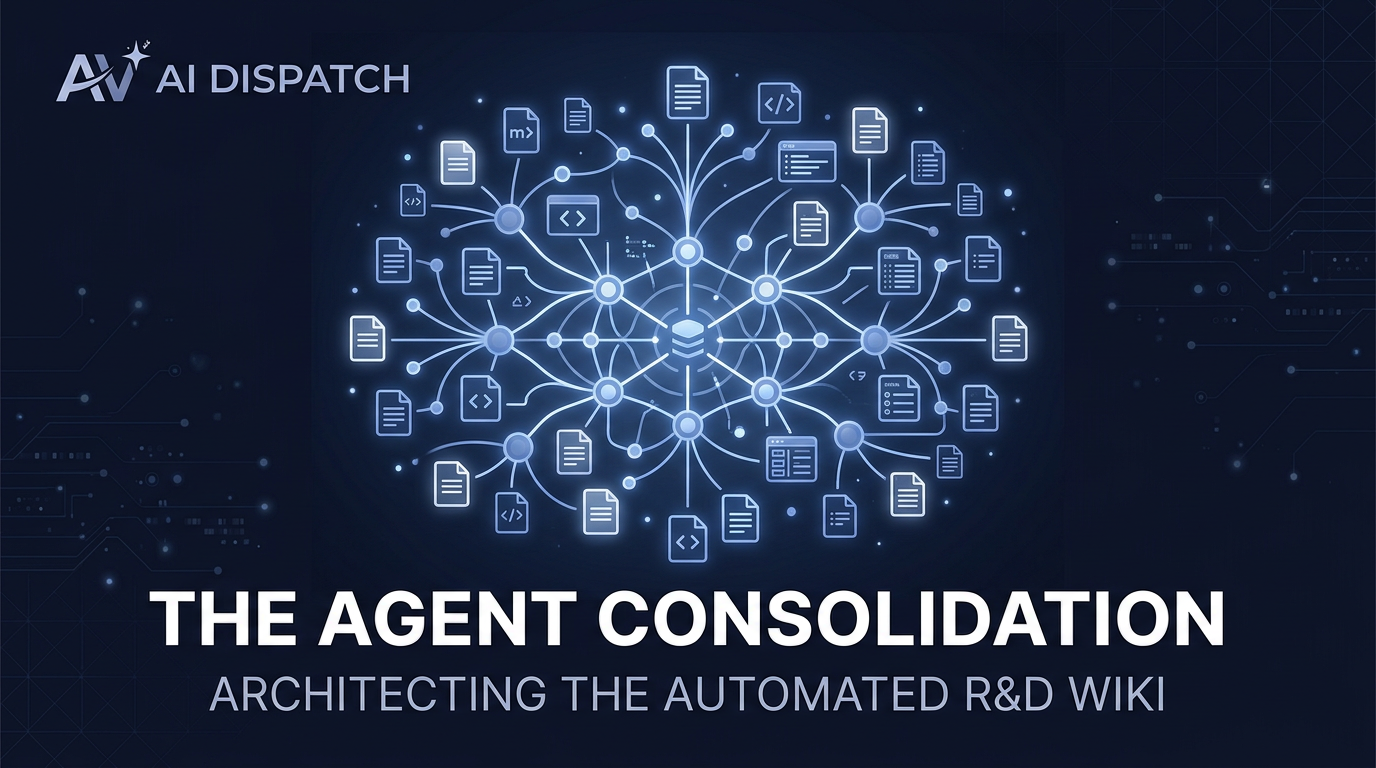
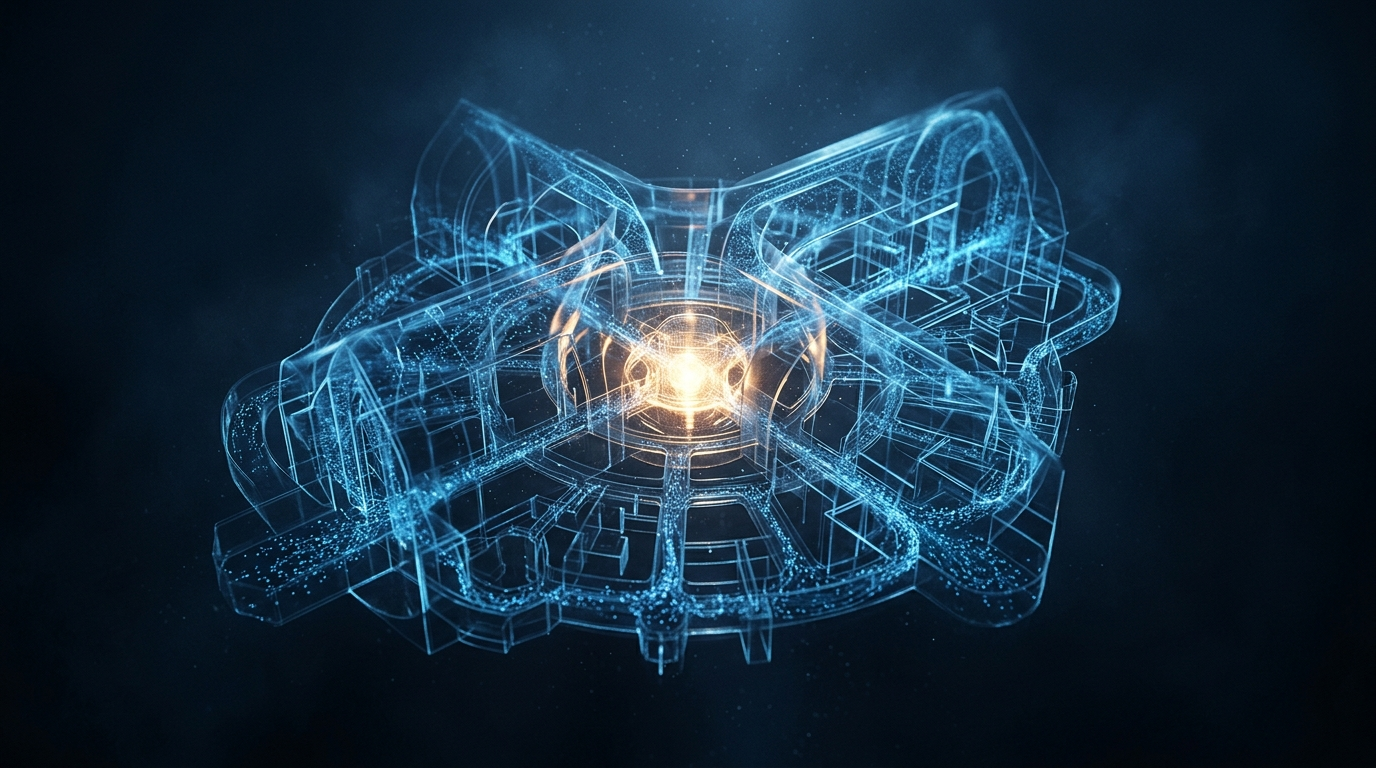
Replace video thumbnail with Nano Banana 2 generation, fix video card CSS
Regenerate thumbnail via Gemini Nano Banana 2 (gemini-3.1-flash-image-preview)
for higher quality cinematic output. Fix video-card-player → video-card-body
class mismatch that broke poster display.

Made-with: Cursor

diff --git a/AV-AI-Newsletter/site/editions/2026-04-03/index.html b/AV-AI-Newsletter/site/editions/2026-04-03/index.html
@@ -91,7 +91,7 @@
               <div class="video-card-title">${VIDEO_TITLE}</div>
             </div>
           </div>
-          <div class="video-card-player">
+          <div class="video-card-body">
             <video controls playsinline preload="metadata" poster="${VIDEO_THUMB}">
               <source src="${VIDEO_SRC}" type="video/mp4">
             </video>
